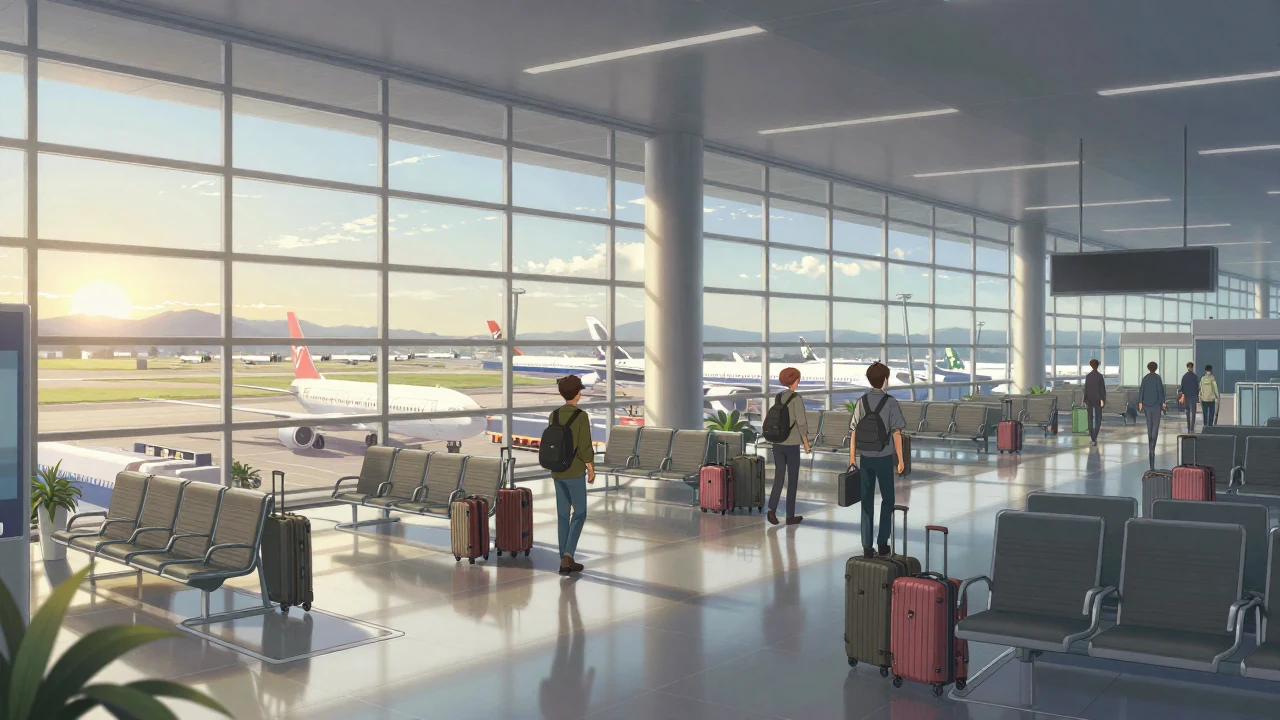
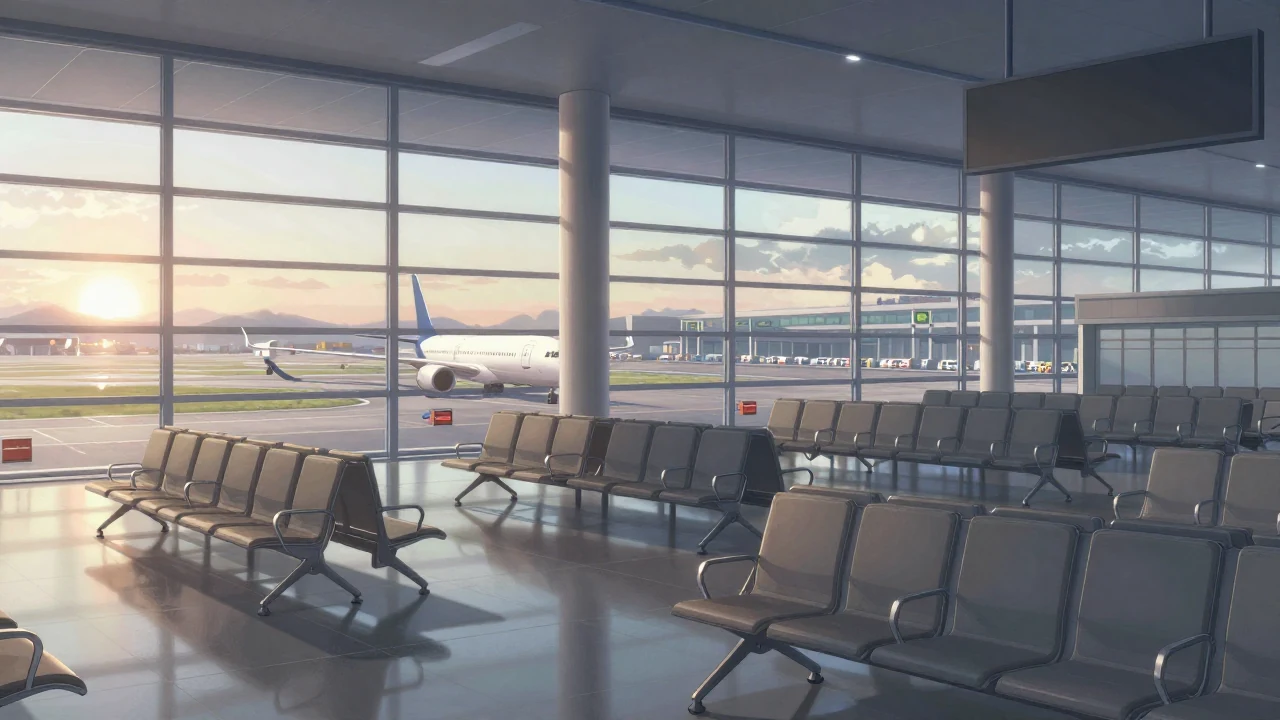
fix: redraw ch01 cover without people and retry police sleeve wording
- ch01 cover prompt now describes a quiet hall with empty seats; new image has no people
- c06_police appearance adds "plain sleeves without patches"; patches still appear, logged in GAPS.md
- GAPS.md: record live 100-level playthrough and updated seed notes

diff --git a/GAPS.md b/GAPS.md
@@ -4,7 +4,7 @@
 
 | # | 項目 | 分類 | 原因 | 影響 | 補完時點 | 責任人 |
 |---|---|---|---|---|---|---|
-| 1 | 386 張圖已用 ComfyUI 產生 | [實作] | 2026-10-04 以 ComfyUI 0.20.1 + Z-Image Turbo（CFG 1.0、10 步）產生；全部看過縮圖，可疑處放大檢查；L001、L050、L100 在瀏覽器實際玩過，圖片 0 個載入錯誤 | 剩餘小瑕疵見第 3、11、12、13、14 列 | 已完成 | 黃政文 |
+| 1 | 386 張圖已用 ComfyUI 產生 | [實作] | 2026-10-04 以 ComfyUI 0.20.1 + Z-Image Turbo（CFG 1.0、10 步）產生；全部看過縮圖，可疑處放大檢查；2026-10-04 在上線版（GitHub Pages）用一次性腳本玩完 100 關（每關 1 次壞結局再走好結局），背景、立繪、導師圖全部載入且尺寸正確，0 個錯誤 | 剩餘小瑕疵見第 3、11、12、13、14 列 | 已完成 | 黃政文 |
 | 2 | `tools/comfyui_generate.py` 已在真實 ComfyUI 跑完 386 張 | [實作] | 執行期間 ComfyUI 中斷 2 次（取樣時 `Fatal Python error: Aborted`；8000 埠監聽因 `WinError 64` 停止），重啟後腳本只補缺的檔案 | 腳本遇到連線中斷會整批停止，不會自動重試或重連，需人工重啟 ComfyUI 後重跑 | 有需要時再加重試 | 黃政文 |
 | 3 | 立繪去背有小瑕疵 | [實作]，已接受 | rembg `u2net` 之後再用腳本內的 `recover_solid`（補回被誤去的同色衣物）與 `iso_residue`（清掉手臂與身體之間殘留的背景色）處理 | 部分角色頭髮邊緣有淡藍或淡綠色細邊（如 mia、c01_officer）；c03_librarian 綠背心與綠底之間留一小條淡綠；少數立繪肩線或畫布邊緣有約 6 px 的半透明帶；c02_pharmacist 鏡片有細小斑點 | 要再改善可加去色溢（despill）步驟 | 黃政文 |
 | 4 | 100 關英文內容未經人工審閱 | [實作]，待人工抽檢 | 內容由 AI 撰寫，只通過自動檢查（結構、簡體字、破折號、人名、角色重複）與連貫性稽核 | 可能有不自然的英文用法、難度落差、文化描述不精準 | 上架前至少抽檢每章 1 關 | 黃政文 |
@@ -15,6 +15,6 @@
 | 9 | 朗讀品質依瀏覽器與作業系統而定 | 平台限制 | 使用瀏覽器內建 Web Speech API，沒有自備語音 | 不同裝置的口音、速度不同；部分線上語音不回報字詞邊界，此時不會逐字標示 | 不排程 | 無 |
 | 10 | 進度只存在本機瀏覽器 | 設計取捨 | 純靜態網站，沒有帳號與後端 | 清除瀏覽器資料或換裝置會遺失進度 | 不排程 | 無 |
 | 11 | 同一角色各表情有小差異 | [實作]，已接受 | 每張圖獨立生成，同角色共用 seed 但構圖與細節仍會變 | c04_ticket_clerk 的 confused 畫風與其他表情不同（seed 0、1 都一樣，推測是提示詞造成）；ember_upset 表情偏淡；ms_wong_upset 髮型較長；配件略有出入（leo 背包帶顏色、c05_museum 胸針、c05_hostel 領巾、c02_barber_happy 沒有鬍子等） | 需要時用 `--match 角色id_ --force --seed-offset N` 重畫 | 黃政文 |
-| 12 | 負面提示詞實際上沒有作用 | 已知限制 | 腳本以 CFG 1.0 取樣（Z-Image Turbo 建議值），ComfyUI 在 CFG 1.0 時不計算負面提示詞 | 實際出現：ch01 章節封面有旅客人影（`data/game.json` 第 14 行封面描述含 busy、rolling suitcases，seed offset 0 到 5 共 6 組都有人）；c06_police 四張袖章都有假字；L049 招牌有「24H」與類似便利商店的配色；L001 看板、L007 零食包裝、L098 牆面有小型假字或斑點 | 建議改 ch01 封面描述（拿掉 busy、rolling suitcases，加 empty rows of seats）、police 外觀加 plain sleeves without patches，同意後重畫 | 黃政文 |
+| 12 | 負面提示詞實際上沒有作用 | 已知限制 | 腳本以 CFG 1.0 取樣（Z-Image Turbo 建議值），ComfyUI 在 CFG 1.0 時不計算負面提示詞 | 實際出現：c06_police 四張袖章都有假字（外觀已加 plain sleeves without patches 並重畫，seed offset 0 到 3 仍有；另在暫存區試兩種寫法：blank sleeves 剩一個袖章、no emblems or insignia 兩袖都有，都沒解決）；L049 招牌有「24H」與類似便利商店的配色；L001 看板、L007 零食包裝、L098 牆面有小型假字或斑點。ch01 章節封面改成空蕩的入境大廳描述後已無人影 | police 袖章要去掉需手動修圖（如 OpenCV 修補），待決定 | 黃政文 |
 | 13 | 12 張立繪有手動修圖，重畫會遺失 | 已知限制 | 自動去背仍漏掉的手臂間背景，用一次性腳本手動清除；c02_cashier_confused 胸前的「M」標誌用 OpenCV 修補掉 | 修過的檔案：c02_cashier_confused、c03_librarian_neutral/happy/confused、c05_night_neutral/happy/upset/confused、c08_daniel_neutral/happy、c09_cafe_finance_upset/confused。用 `--force` 重畫這些角色會回到未修狀態 | 重畫這些角色時重新檢查 | 黃政文 |
-| 14 | 部分圖片用了非預設 seed，專案裡沒有記錄 | 已知限制 | `--seed-offset` 只是執行參數，不寫入資料檔 | 以 `--seed-offset 1` 產生的：chapter/ch01、bg/L007、bg/L036、c02_cashier 全組、c09_hotel_director 全組。之後不帶參數 `--force` 重畫會得到不同的圖 | 重畫時參照本列 | 黃政文 |
+| 14 | 部分圖片用了非預設 seed，專案裡沒有記錄 | 已知限制 | `--seed-offset` 只是執行參數，不寫入資料檔 | 以 `--seed-offset 1` 產生的：bg/L007、bg/L036、c02_cashier 全組、c09_hotel_director 全組。之後不帶參數 `--force` 重畫會得到不同的圖 | 重畫時參照本列 | 黃政文 |

diff --git a/prompts/PROMPTS.md b/prompts/PROMPTS.md
@@ -45,7 +45,7 @@ blurry, ugly, bad quality, lowres, realistic, 3D, photo, deformed, extra limbs, 
 `assets/chapter/ch01.webp`，seed 230459504
 
 ```text
-anime style key visual background art, busy international airport arrival hall at morning, large glass windows with runway view, rolling suitcases, soft sunrise light, 2D illustration, detailed background, beautiful lighting, high quality, no people, no characters, blank signs, plain unmarked surfaces
+anime style key visual background art, quiet international airport arrival hall at morning, empty rows of seats, large glass windows with runway view, soft sunrise light, 2D illustration, detailed background, beautiful lighting, high quality, no people, no characters, blank signs, plain unmarked surfaces
 ```
 
 ### ch02 生活起步
@@ -2229,25 +2229,25 @@ blurry, ugly, bad quality, lowres, realistic, 3D, photo, deformed, extra limbs, 
 - `assets/char/c06_police_neutral.webp`
 
   ```text
-  anime style visual novel character sprite, woman in her early 30s, black hair in a low tight bun, dark navy police uniform with a silver badge, small radio clipped to the shoulder, calm steady vibe, calm neutral expression, relaxed, Asian face, East Asian features, upper body portrait, facing viewer, centered, isolated on a plain flat light blue background, nothing behind the subject, 2D anime style, high quality illustration, clean lineart, soft cel shading
+  anime style visual novel character sprite, woman in her early 30s, black hair in a low tight bun, dark navy police uniform with plain sleeves without patches, a silver badge, small radio clipped to the shoulder, calm steady vibe, calm neutral expression, relaxed, Asian face, East Asian features, upper body portrait, facing viewer, centered, isolated on a plain flat light blue background, nothing behind the subject, 2D anime style, high quality illustration, clean lineart, soft cel shading
   ```
 
 - `assets/char/c06_police_happy.webp`
 
   ```text
-  anime style visual novel character sprite, woman in her early 30s, black hair in a low tight bun, dark navy police uniform with a silver badge, small radio clipped to the shoulder, calm steady vibe, bright warm smile, happy cheerful expression, Asian face, East Asian features, upper body portrait, facing viewer, centered, isolated on a plain flat light blue background, nothing behind the subject, 2D anime style, high quality illustration, clean lineart, soft cel shading
+  anime style visual novel character sprite, woman in her early 30s, black hair in a low tight bun, dark navy police uniform with plain sleeves without patches, a silver badge, small radio clipped to the shoulder, calm steady vibe, bright warm smile, happy cheerful expression, Asian face, East Asian features, upper body portrait, facing viewer, centered, isolated on a plain flat light blue background, nothing behind the subject, 2D anime style, high quality illustration, clean lineart, soft cel shading
   ```
 
 - `assets/char/c06_police_upset.webp`
 
   ```text
-  anime style visual novel character sprite, woman in her early 30s, black hair in a low tight bun, dark navy police uniform with a silver badge, small radio clipped to the shoulder, calm steady vibe, annoyed frown, furrowed eyebrows, pouting lips, clearly displeased expression, Asian face, East Asian features, upper body portrait, facing viewer, centered, isolated on a plain flat light blue background, nothing behind the subject, 2D anime style, high quality illustration, clean lineart, soft cel shading
+  anime style visual novel character sprite, woman in her early 30s, black hair in a low tight bun, dark navy police uniform with plain sleeves without patches, a silver badge, small radio clipped to the shoulder, calm steady vibe, annoyed frown, furrowed eyebrows, pouting lips, clearly displeased expression, Asian face, East Asian features, upper body portrait, facing viewer, centered, isolated on a plain flat light blue background, nothing behind the subject, 2D anime style, high quality illustration, clean lineart, soft cel shading
   ```
 
 - `assets/char/c06_police_confused.webp`
 
   ```text
-  anime style visual novel character sprite, woman in her early 30s, black hair in a low tight bun, dark navy police uniform with a silver badge, small radio clipped to the shoulder, calm steady vibe, confused puzzled expression, one eyebrow raised, head slightly tilted, Asian face, East Asian features, upper body portrait, facing viewer, centered, isolated on a plain flat light blue background, nothing behind the subject, 2D anime style, high quality illustration, clean lineart, soft cel shading
+  anime style visual novel character sprite, woman in her early 30s, black hair in a low tight bun, dark navy police uniform with plain sleeves without patches, a silver badge, small radio clipped to the shoulder, calm steady vibe, confused puzzled expression, one eyebrow raised, head slightly tilted, Asian face, East Asian features, upper body portrait, facing viewer, centered, isolated on a plain flat light blue background, nothing behind the subject, 2D anime style, high quality illustration, clean lineart, soft cel shading
   ```
 
 ### Tyler 泰勒（c06_clerk，seed 637936922）
